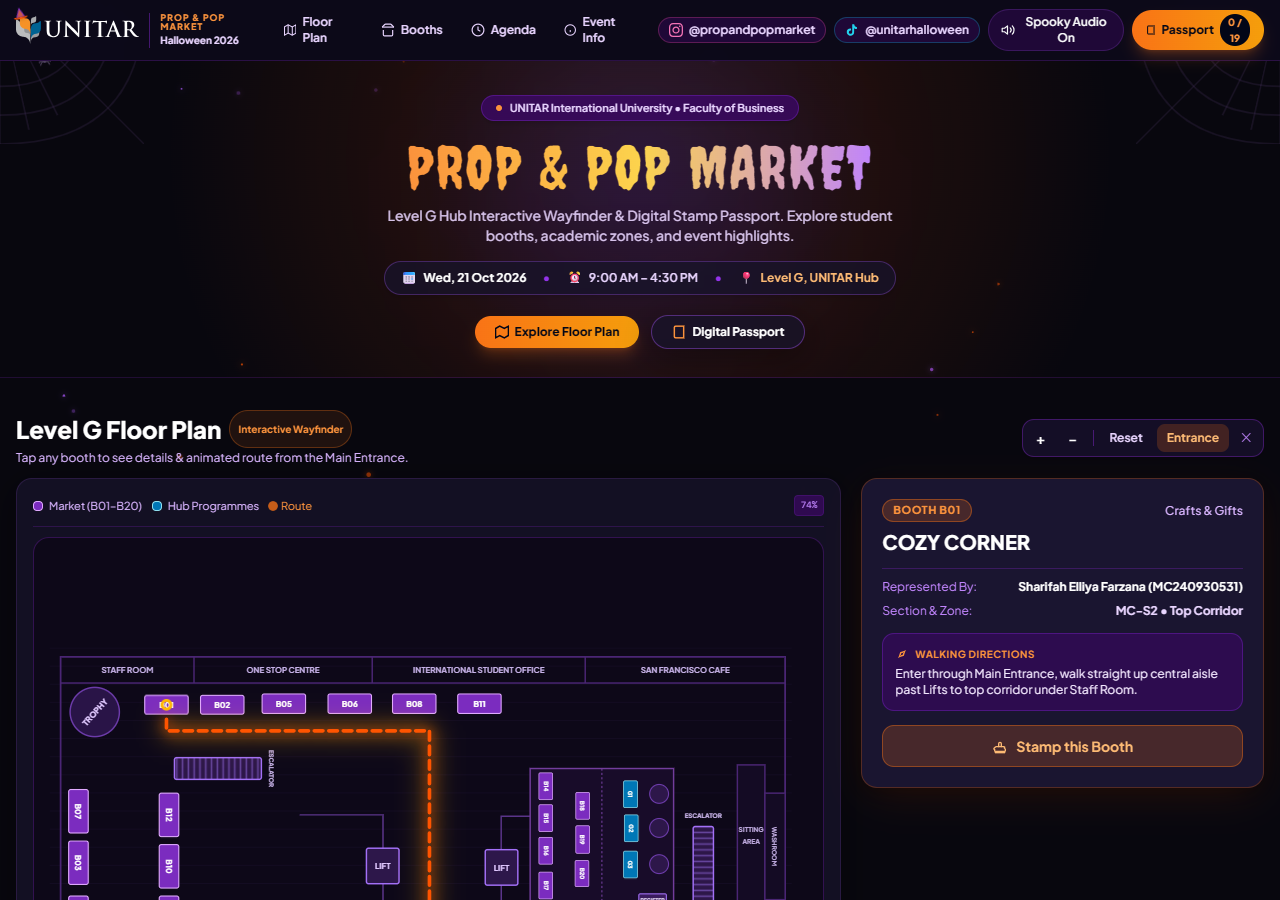
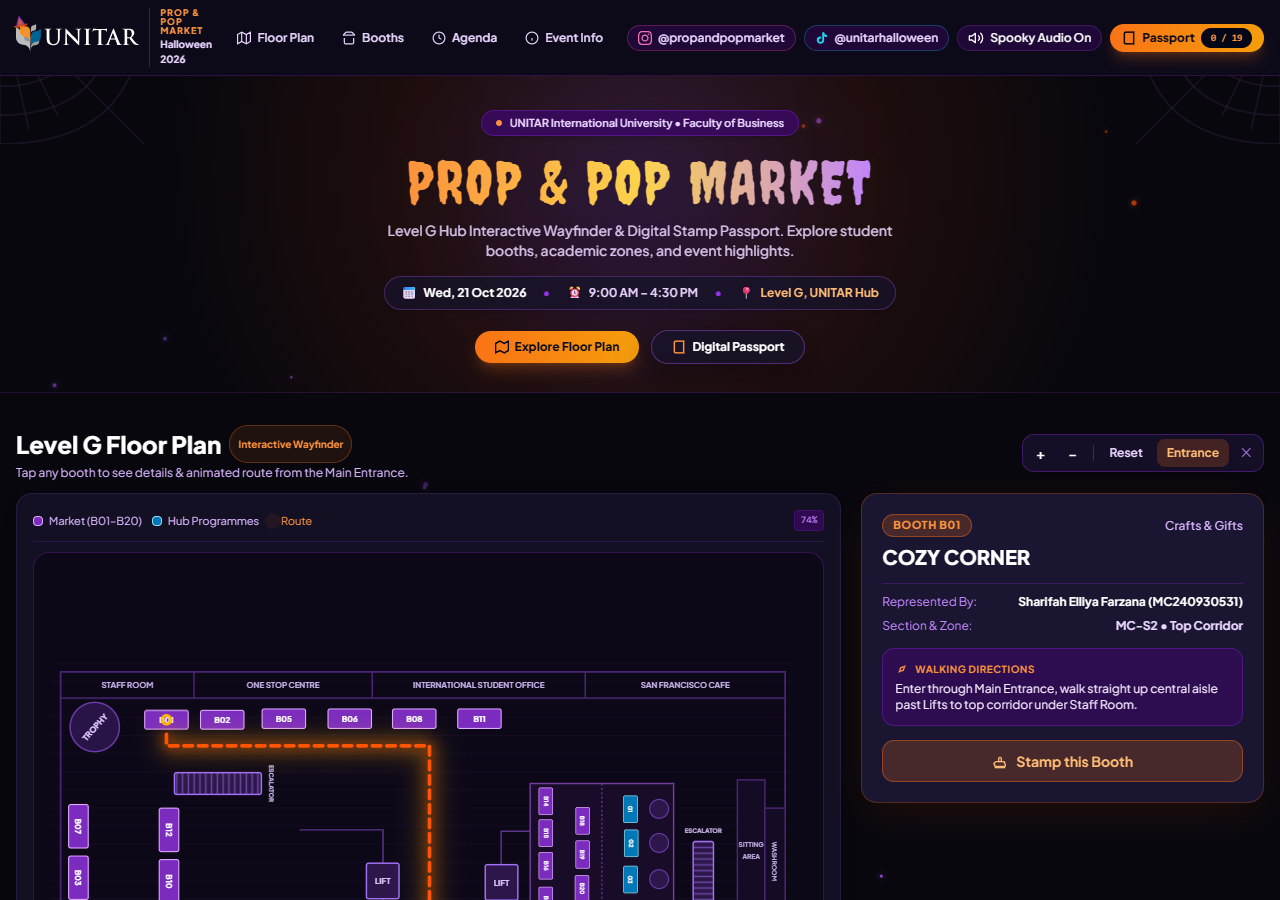
fix(ui): enforce single-line layout on nav & passport badge, and smooth scroll to map on mobile Show Route

diff --git a/index.html b/index.html
@@ -111,29 +111,29 @@
       </a>
 
       <!-- Desktop Smooth Navigation Links -->
-      <nav class="hidden md:flex items-center gap-1 text-xs font-semibold text-purple-200">
-        <a id="nav-map" href="#map-section" class="desktop-nav-link px-3 py-1.5 rounded-lg hover:bg-purple-900/40 hover:text-white transition flex items-center gap-1.5">
-          <svg class="w-3.5 h-3.5" viewBox="0 0 24 24" fill="none" stroke="currentColor" stroke-width="2"><polygon points="1 6 1 22 8 18 16 22 23 18 23 2 16 6 8 2 1 6"/><line x1="8" y1="2" x2="8" y2="18"/><line x1="16" y1="6" x2="16" y2="22"/></svg>
-          <span>Floor Plan</span>
+      <nav class="hidden md:flex items-center gap-1 text-xs font-semibold text-purple-200 shrink-0 whitespace-nowrap">
+        <a id="nav-map" href="#map-section" class="desktop-nav-link whitespace-nowrap px-2.5 lg:px-3 py-1.5 rounded-lg hover:bg-purple-900/40 hover:text-white transition flex items-center gap-1.5 text-xs shrink-0">
+          <svg class="w-3.5 h-3.5 shrink-0" viewBox="0 0 24 24" fill="none" stroke="currentColor" stroke-width="2"><polygon points="1 6 1 22 8 18 16 22 23 18 23 2 16 6 8 2 1 6"/><line x1="8" y1="2" x2="8" y2="18"/><line x1="16" y1="6" x2="16" y2="22"/></svg>
+          <span class="whitespace-nowrap">Floor Plan</span>
         </a>
-        <a id="nav-directory" href="#directory-section" class="desktop-nav-link px-3 py-1.5 rounded-lg hover:bg-purple-900/40 hover:text-white transition flex items-center gap-1.5">
-          <svg class="w-3.5 h-3.5" viewBox="0 0 24 24" fill="none" stroke="currentColor" stroke-width="2"><path d="m2 7 4.41-4.41A2 2 0 0 1 7.83 2h8.34a2 2 0 0 1 1.42.59L22 7"/><path d="M4 12v8a2 2 0 0 0 2 2h12a2 2 0 0 0 2-2v-8"/><path d="M2 7h20"/></svg>
-          <span>Booths</span>
+        <a id="nav-directory" href="#directory-section" class="desktop-nav-link whitespace-nowrap px-2.5 lg:px-3 py-1.5 rounded-lg hover:bg-purple-900/40 hover:text-white transition flex items-center gap-1.5 text-xs shrink-0">
+          <svg class="w-3.5 h-3.5 shrink-0" viewBox="0 0 24 24" fill="none" stroke="currentColor" stroke-width="2"><path d="m2 7 4.41-4.41A2 2 0 0 1 7.83 2h8.34a2 2 0 0 1 1.42.59L22 7"/><path d="M4 12v8a2 2 0 0 0 2 2h12a2 2 0 0 0 2-2v-8"/><path d="M2 7h20"/></svg>
+          <span class="whitespace-nowrap">Booths</span>
         </a>
-        <a id="nav-agenda" href="#agenda-section" class="desktop-nav-link px-3 py-1.5 rounded-lg hover:bg-purple-900/40 hover:text-white transition flex items-center gap-1.5">
-          <svg class="w-3.5 h-3.5" viewBox="0 0 24 24" fill="none" stroke="currentColor" stroke-width="2"><circle cx="12" cy="12" r="10"/><polyline points="12 6 12 12 16 14"/></svg>
-          <span>Agenda</span>
+        <a id="nav-agenda" href="#agenda-section" class="desktop-nav-link whitespace-nowrap px-2.5 lg:px-3 py-1.5 rounded-lg hover:bg-purple-900/40 hover:text-white transition flex items-center gap-1.5 text-xs shrink-0">
+          <svg class="w-3.5 h-3.5 shrink-0" viewBox="0 0 24 24" fill="none" stroke="currentColor" stroke-width="2"><circle cx="12" cy="12" r="10"/><polyline points="12 6 12 12 16 14"/></svg>
+          <span class="whitespace-nowrap">Agenda</span>
         </a>
-        <a id="nav-info" href="#info-section" class="desktop-nav-link px-3 py-1.5 rounded-lg hover:bg-purple-900/40 hover:text-white transition flex items-center gap-1.5">
-          <svg class="w-3.5 h-3.5" viewBox="0 0 24 24" fill="none" stroke="currentColor" stroke-width="2"><circle cx="12" cy="12" r="10"/><line x1="12" y1="16" x2="12" y2="12"/><line x1="12" y1="8" x2="12.01" y2="8"/></svg>
-          <span>Event Info</span>
+        <a id="nav-info" href="#info-section" class="desktop-nav-link whitespace-nowrap px-2.5 lg:px-3 py-1.5 rounded-lg hover:bg-purple-900/40 hover:text-white transition flex items-center gap-1.5 text-xs shrink-0">
+          <svg class="w-3.5 h-3.5 shrink-0" viewBox="0 0 24 24" fill="none" stroke="currentColor" stroke-width="2"><circle cx="12" cy="12" r="10"/><line x1="12" y1="16" x2="12" y2="12"/><line x1="12" y1="8" x2="12.01" y2="8"/></svg>
+          <span class="whitespace-nowrap">Event Info</span>
         </a>
       </nav>
 
       <!-- Action Utilities: Official Socials (IG & TikTok), Spooky Audio Toggle & Passport Modal Button -->
-      <div class="flex items-center gap-1.5 sm:gap-2">
+      <div class="flex items-center gap-1.5 sm:gap-2 shrink-0">
         <!-- Official Event Instagram Link -->
-        <a href="https://www.instagram.com/p/DeYsFLFR_hn/?mdxt=MWNqNms3eGRxYnMzZw==" target="_blank" rel="noopener noreferrer" class="py-1 px-2 sm:px-2.5 rounded-full border border-pink-500/30 bg-purple-950/40 hover:bg-pink-950/50 hover:border-pink-500/60 text-purple-200 hover:text-pink-300 transition flex items-center gap-1.5" title="Follow Prop and Pop Market on Instagram (@propandpopmarket)">
+        <a href="https://www.instagram.com/p/DeYsFLFR_hn/?mdxt=MWNqNms3eGRxYnMzZw==" target="_blank" rel="noopener noreferrer" class="py-1 px-2 sm:px-2.5 rounded-full border border-pink-500/30 bg-purple-950/40 hover:bg-pink-950/50 hover:border-pink-500/60 text-purple-200 hover:text-pink-300 transition flex items-center gap-1.5 shrink-0" title="Follow Prop and Pop Market on Instagram (@propandpopmarket)">
           <svg class="w-3.5 h-3.5 text-pink-400 shrink-0" viewBox="0 0 24 24" fill="currentColor">
             <path d="M12 2.163c3.204 0 3.584.012 4.85.07 3.252.148 4.771 1.691 4.919 4.919.058 1.265.069 1.645.069 4.849 0 3.205-.012 3.584-.069 4.849-.149 3.225-1.664 4.771-4.919 4.919-1.266.058-1.644.07-4.85.07-3.204 0-3.584-.012-4.849-.07-3.26-.149-4.771-1.699-4.919-4.92-.058-1.265-.07-1.644-.07-4.849 0-3.204.013-3.583.07-4.849.149-3.227 1.664-4.771 4.919-4.919 1.266-.057 1.645-.069 4.849-.069zm0-2.163c-3.259 0-3.667.014-4.947.072-4.358.2-6.78 2.618-6.98 6.98-.059 1.281-.073 1.689-.073 4.948 0 3.259.014 3.668.072 4.948.2 4.358 2.618 6.78 6.98 6.98 1.281.058 1.689.072 4.948.072 3.259 0 3.668-.014 4.948-.072 4.354-.2 6.782-2.618 6.979-6.98.059-1.28.073-1.689.073-4.948 0-3.259-.014-3.667-.072-4.947-.196-4.354-2.617-6.78-6.979-6.98-1.281-.059-1.69-.073-4.949-.073zm0 5.838c-3.403 0-6.162 2.759-6.162 6.162s2.759 6.163 6.162 6.163 6.162-2.759 6.162-6.163c0-3.403-2.759-6.162-6.162-6.162zm0 10.162c-2.209 0-4-1.79-4-4 0-2.209 1.791-4 4-4s4 1.791 4 4c0 2.21-1.791 4-4 4zm6.406-11.845c-.796 0-1.441.645-1.441 1.44s.645 1.44 1.441 1.44c.795 0 1.439-.645 1.439-1.44s-.644-1.44-1.439-1.44z"/>
           </svg>
@@ -141,22 +141,22 @@
         </a>
 
         <!-- Official Event TikTok Link -->
-        <a href="https://vt.tiktok.com/ZSbTnwRfd/" target="_blank" rel="noopener noreferrer" class="py-1 px-2 sm:px-2.5 rounded-full border border-cyan-500/30 bg-purple-950/40 hover:bg-cyan-950/50 hover:border-cyan-500/60 text-purple-200 hover:text-cyan-300 transition flex items-center gap-1.5" title="Follow Halloween Event on TikTok (@unitarhalloweenevent2026)">
+        <a href="https://vt.tiktok.com/ZSbTnwRfd/" target="_blank" rel="noopener noreferrer" class="py-1 px-2 sm:px-2.5 rounded-full border border-cyan-500/30 bg-purple-950/40 hover:bg-cyan-950/50 hover:border-cyan-500/60 text-purple-200 hover:text-cyan-300 transition flex items-center gap-1.5 shrink-0" title="Follow Halloween Event on TikTok (@unitarhalloweenevent2026)">
           <svg class="w-3.5 h-3.5 text-cyan-400 shrink-0" viewBox="0 0 24 24" fill="currentColor">
             <path d="M19.59 6.69a4.83 4.83 0 0 1-3.77-4.25V2h-3.45v13.67a2.89 2.89 0 0 1-5.2 1.74 2.89 2.89 0 0 1 2.31-4.64c.298-.002.595.042.88.13V9.4a6.33 6.33 0 0 0-1-.08A6.34 6.34 0 0 0 3 15.66a6.34 6.34 0 0 0 10.82 4.47 6.27 6.27 0 0 0 1.83-4.47V8.9a8.16 8.16 0 0 0 4.77 1.52v-3.4a4.85 4.85 0 0 1-.83-.33z"/>
           </svg>
           <span class="hidden lg:inline text-xs font-semibold">@unitarhalloween</span>
         </a>
 
-        <button id="audio-toggle-btn" class="py-1 px-2.5 sm:px-3 rounded-full border border-purple-500/20 bg-purple-950/40 hover:bg-purple-900/60 transition flex items-center gap-1.5" title="Toggle Spooky Audio Effects">
-          <svg class="w-3.5 h-3.5 text-orange-400" viewBox="0 0 24 24" fill="none" stroke="currentColor" stroke-width="2"><polygon points="11 5 6 9 2 9 2 15 6 15 11 19 11 5"/><path d="M15.54 8.46a5 5 0 0 1 0 7.07"/></svg>
+        <button id="audio-toggle-btn" class="py-1 px-2 sm:px-2.5 rounded-full border border-purple-500/20 bg-purple-950/40 hover:bg-purple-900/60 transition flex items-center gap-1.5 shrink-0" title="Toggle Spooky Audio Effects">
+          <svg class="w-3.5 h-3.5 text-orange-400 shrink-0" viewBox="0 0 24 24" fill="none" stroke="currentColor" stroke-width="2"><polygon points="11 5 6 9 2 9 2 15 6 15 11 19 11 5"/><path d="M15.54 8.46a5 5 0 0 1 0 7.07"/></svg>
           <span class="hidden sm:inline text-xs font-semibold text-purple-200">Spooky Sound</span>
         </button>
 
-        <button onclick="openPassportModal()" class="py-1 px-3 sm:px-3.5 rounded-full bg-gradient-to-r from-orange-500 to-amber-500 hover:from-orange-400 hover:to-amber-400 text-slate-950 text-xs font-black shadow-lg shadow-orange-500/25 transition flex items-center gap-1.5">
-          <svg class="w-3.5 h-3.5" viewBox="0 0 24 24" fill="none" stroke="currentColor" stroke-width="2.5"><path d="M4 19.5v-15A2.5 2.5 0 0 1 6.5 2H20v20H6.5a2.5 2.5 0 0 1-2.5-2.5Z"/></svg>
-          <span>Passport</span>
-          <span id="passport-badge-count" class="bg-slate-950 text-orange-400 px-1.5 py-0.2 rounded-full text-[10px]">0 / 19</span>
+        <button onclick="openPassportModal()" class="py-1 px-2.5 sm:px-3 rounded-full bg-gradient-to-r from-orange-500 to-amber-500 hover:from-orange-400 hover:to-amber-400 text-slate-950 text-xs font-black shadow-lg shadow-orange-500/25 transition flex items-center gap-1.5 shrink-0 whitespace-nowrap">
+          <svg class="w-3.5 h-3.5 shrink-0" viewBox="0 0 24 24" fill="none" stroke="currentColor" stroke-width="2.5"><path d="M4 19.5v-15A2.5 2.5 0 0 1 6.5 2H20v20H6.5a2.5 2.5 0 0 1-2.5-2.5Z"/></svg>
+          <span class="whitespace-nowrap">Passport</span>
+          <span id="passport-badge-count" class="bg-slate-950 text-orange-400 px-2 py-0.5 rounded-full text-[9.5px] sm:text-[10px] font-black font-mono whitespace-nowrap inline-flex items-center justify-center min-w-[3.2rem] tracking-tight">0 / 19</span>
         </button>
       </div>
     </div>
@@ -706,7 +706,7 @@
             Official opening speech by the Faculty of Business Acting Dean at the Main Stage (UNITAR Hub).
           </p>
         </div>
-        <button onclick="selectBooth('STAGE', true); document.getElementById('map-section').scrollIntoView({ behavior: 'smooth' });" class="self-start sm:self-center px-3 py-1.5 rounded-lg bg-purple-900/40 hover:bg-purple-800 text-purple-200 text-xs font-bold transition shrink-0">
+        <button onclick="selectBooth('STAGE', true); scrollToMap();" class="self-start sm:self-center px-3 py-1.5 rounded-lg bg-purple-900/40 hover:bg-purple-800 text-purple-200 text-xs font-bold transition shrink-0">
           Locate Stage →
         </button>
       </div>
@@ -744,7 +744,7 @@
             Wrap up the day with group photo sessions at the Halloween Photo Stand and final visits before market concludes!
           </p>
         </div>
-        <button onclick="selectBooth('PHOTO', true); document.getElementById('map-section').scrollIntoView({ behavior: 'smooth' });" class="self-start sm:self-center px-3 py-1.5 rounded-lg bg-purple-900/40 hover:bg-purple-800 text-purple-200 text-xs font-bold transition shrink-0">
+        <button onclick="selectBooth('PHOTO', true); scrollToMap();" class="self-start sm:self-center px-3 py-1.5 rounded-lg bg-purple-900/40 hover:bg-purple-800 text-purple-200 text-xs font-bold transition shrink-0">
           Photo Stand →
         </button>
       </div>

diff --git a/test_floorplan.js b/test_floorplan.js
@@ -79,33 +79,45 @@ const fs = require('fs');
     console.log('SUCCESS: Passport total is exactly 19 booths (B01-B20)!');
   }
 
-  const badgeText = await page.innerText('#passport-badge-count');
-  console.log(`Header badge counter text: "${badgeText}"`);
-  if (!badgeText.includes('/ 19')) {
-    console.error(`FAIL: Header badge counter does not show / 19: "${badgeText}"`);
-    process.exitCode = 1;
-  } else {
-    console.log('SUCCESS: Header badge counter displays "0 / 19"!');
-  }
-
-  // 5. Open Passport Modal & Verify 19 Stamp Slots
-  console.log('Opening passport modal...');
-  await page.evaluate(() => openPassportModal());
-  await page.waitForTimeout(300);
-
-  const slotCount = await page.$$eval('#passport-slots-grid > div', els => els.length);
-  console.log(`Passport modal slot count: ${slotCount}`);
-  if (slotCount !== 19) {
-    console.error(`FAIL: Expected 19 passport slots, found ${slotCount}`);
-    process.exitCode = 1;
-  } else {
-    console.log('SUCCESS: Exactly 19 stamp slots rendered in passport modal!');
-  }
-
-  await page.screenshot({ path: path.join(screenshotDir, 'passport_modal_19slots.png') });
-  console.log('Saved: passport_modal_19slots.png');
-  await page.evaluate(() => closePassportModal());
+  // 5. Verify Single-Line Navbar and Elongated Badge on 950px viewport (medium screen)
+  console.log('Testing Single-Line Nav Links & Elongated Passport Badge (950px viewport)...');
+  await page.setViewportSize({ width: 950, height: 800 });
   await page.waitForTimeout(200);
+
+  // Check Floor Plan & Event Info nav height (should be single line ~16-20px, not stacked > 30px)
+  const floorPlanHeight = await page.$eval('#nav-map span', el => el.getBoundingClientRect().height);
+  const eventInfoHeight = await page.$eval('#nav-info span', el => el.getBoundingClientRect().height);
+  console.log(`Nav "Floor Plan" height: ${floorPlanHeight}px, "Event Info" height: ${eventInfoHeight}px`);
+  if (floorPlanHeight > 24 || eventInfoHeight > 24) {
+    console.error('FAIL: Nav links wrapped onto multiple lines!');
+    process.exitCode = 1;
+  } else {
+    console.log('SUCCESS: Nav links strictly stay on one single line!');
+  }
+
+  // Set 18 stamps to test "18 / 19" badge
+  await page.evaluate(() => {
+    const booths = BOOTHS_DATA.filter(b => passport.isStampable(b.id)).slice(0, 18);
+    booths.forEach(b => passport.stamps.add(b.id));
+    passport.save();
+    passport.updateUI();
+  });
+
+  const badgeText18 = await page.innerText('#passport-badge-count');
+  const badgeHeight18 = await page.$eval('#passport-badge-count', el => el.getBoundingClientRect().height);
+  console.log(`Passport badge text: "${badgeText18}", height: ${badgeHeight18}px`);
+  if (badgeHeight18 > 24 || !badgeText18.includes('18 / 19')) {
+    console.error(`FAIL: Badge wrapped onto multiple lines or text incorrect! Height: ${badgeHeight18}`);
+    process.exitCode = 1;
+  } else {
+    console.log('SUCCESS: Passport badge "18 / 19" displays cleanly on ONE single line without stacking!');
+  }
+
+  await page.screenshot({ path: path.join(screenshotDir, 'desktop_nav_single_line.png') });
+  console.log('Saved: desktop_nav_single_line.png');
+
+  // Reset back to 1280px viewport
+  await page.setViewportSize({ width: 1280, height: 900 });
 
   // 6. Test Drawer Stamp Button behavior for Vendor Booth vs Non-Booth
   console.log('Testing Drawer Stamp Button for B01 (Vendor Booth)...');
@@ -141,23 +153,7 @@ const fs = require('fs');
     console.log('SUCCESS: #panel-stamp-btn is hidden for BFINTECH!');
   }
 
-  // 7. Test Stamping B01 and milestone progress
-  console.log('Testing Stamping B01...');
-  await page.evaluate(() => passport.toggleStamp('B01'));
-  const stampedCount = await page.evaluate(() => passport.getCount());
-  console.log(`Stamped count after B01: ${stampedCount}`);
-  if (stampedCount !== 1) {
-    console.error(`FAIL: Expected count 1, got ${stampedCount}`);
-    process.exitCode = 1;
-  }
-  const badgeAfterStamp = await page.innerText('#passport-badge-count');
-  console.log(`Badge after stamp: "${badgeAfterStamp}"`);
-  if (badgeAfterStamp !== '1 / 19') {
-    console.error(`FAIL: Expected '1 / 19', got "${badgeAfterStamp}"`);
-    process.exitCode = 1;
-  }
-
-  // 8. Test 100% Completion & Rickroll Modal (Voucher Code Section DELETED)
+  // 7. Test 100% Completion & Rickroll Modal (Voucher Code Section DELETED)
   console.log('Testing 100% completion (collecting all 19 booth stamps)...');
   await page.evaluate(() => {
     const stampable = BOOTHS_DATA.filter(b => passport.isStampable(b.id));
@@ -212,7 +208,7 @@ const fs = require('fs');
     passport.updateUI();
   });
 
-  // 9. Verify QR Standee is HIDDEN by default and ACCESSIBLE in realtime via URL altering
+  // 8. Verify QR Standee is HIDDEN by default and ACCESSIBLE in realtime via URL altering
   console.log('Testing QR Standee hidden by default...');
   const isQrLinkHiddenDefault = await page.$eval('#qr-standee-link', el => el.classList.contains('hidden'));
   const isQrPillHiddenDefault = await page.$eval('#qr-organizer-pill', el => el.classList.contains('hidden'));
@@ -242,9 +238,6 @@ const fs = require('fs');
     console.log('SUCCESS: QR Standee became visible in realtime after altering URL hash to #qr!');
   }
 
-  await page.screenshot({ path: path.join(screenshotDir, 'qr_revealed_realtime.png') });
-  console.log('Saved: qr_revealed_realtime.png');
-
   // Remove hash (#) in realtime
   console.log('Removing hash to test hiding again in realtime...');
   await page.evaluate(() => {
@@ -263,14 +256,7 @@ const fs = require('fs');
     console.log('SUCCESS: QR Standee hides again in realtime when URL hash is cleared!');
   }
 
-  // 10. Reset map view to full overview
-  console.log('Resetting map view...');
-  await page.click('#btn-reset-zoom');
-  await page.waitForTimeout(400);
-  await mapElement.screenshot({ path: path.join(screenshotDir, 'desktop_floorplan_overview.png') });
-  console.log('Saved: desktop_floorplan_overview.png');
-
-  // 11. Verify Zero Phone Numbers in DOM
+  // 9. Verify Zero Phone Numbers in DOM
   const bodyText = await page.innerText('body');
   const phoneRegex = /\b01[0-9]-?[0-9]{7,8}\b/g;
   const foundPhones = bodyText.match(phoneRegex);
@@ -281,20 +267,48 @@ const fs = require('fs');
     console.log('SUCCESS: Zero phone/contact numbers detected in DOM! (Verified constraint)');
   }
 
-  // 12. Test Mobile Viewport (390x844 iPhone 12/13/14)
-  console.log('Testing Mobile Viewport (390x844)...');
+  // 10. Test Mobile Viewport (390x844 iPhone 12/13/14) & "Show Route" Scroll to Map
+  console.log('Testing Mobile Viewport (390x844) & "Show Route" scroll to map...');
   await page.setViewportSize({ width: 390, height: 844 });
-  await page.waitForTimeout(400);
-  await page.click('#btn-reset-zoom');
   await page.waitForTimeout(300);
-  await page.screenshot({ path: path.join(screenshotDir, 'mobile_full_view.png') });
-  console.log('Saved: mobile_full_view.png');
 
-  const mobileMap = await page.$('#map-viewport');
-  if (mobileMap) {
-    await mobileMap.screenshot({ path: path.join(screenshotDir, 'mobile_map_viewport.png') });
-    console.log('Saved: mobile_map_viewport.png');
+  // Scroll down to directory section
+  await page.evaluate(() => {
+    document.getElementById('directory-section').scrollIntoView();
+  });
+  await page.waitForTimeout(300);
+  const scrollBeforeClick = await page.evaluate(() => window.scrollY);
+  console.log(`Scroll position before clicking "Show Route": ${scrollBeforeClick}px`);
+
+  // Click "Show Route" on B01 in directory
+  console.log('Clicking "Show Route" button on B01 card...');
+  const showRouteBtn = await page.$('#booth-grid button:has-text("Show Route")');
+  if (showRouteBtn) {
+    await showRouteBtn.click();
+    await page.waitForTimeout(600); // Allow smooth scroll to settle
+  } else {
+    console.error('FAIL: Could not find Show Route button!');
+    process.exitCode = 1;
   }
+
+  const scrollAfterClick = await page.evaluate(() => window.scrollY);
+  const mapSectionOffsetTop = await page.evaluate(() => {
+    const el = document.getElementById('map-section');
+    return el ? el.offsetTop : 0;
+  });
+  console.log(`Scroll position after clicking "Show Route": ${scrollAfterClick}px (map section top: ${mapSectionOffsetTop}px)`);
+
+  // Verify that the viewport scrolled up towards map-section (should be around mapSectionOffsetTop - 64)
+  const isScrolledToMap = Math.abs(scrollAfterClick - (mapSectionOffsetTop - 64)) < 120 || scrollAfterClick < mapSectionOffsetTop + 100;
+  if (!isScrolledToMap) {
+    console.error(`FAIL: Viewport did not scroll to map section! Expected near ${mapSectionOffsetTop - 64}, got ${scrollAfterClick}`);
+    process.exitCode = 1;
+  } else {
+    console.log('SUCCESS: On mobile, clicking "Show Route" smoothly scrolled directly to the map!');
+  }
+
+  await page.screenshot({ path: path.join(screenshotDir, 'mobile_show_route_scrolled_to_map.png') });
+  console.log('Saved: mobile_show_route_scrolled_to_map.png');
 
   await browser.close();
   console.log('--- PLAYWRIGHT VERIFICATION COMPLETE ---');

diff --git a/app.js b/app.js
@@ -1312,18 +1312,21 @@ function selectBooth(id, triggerFly = true) {
   // 4. Update Details Drawer & Drawer UI
   updateBoothInfoPanel(booth);
 
-  // If on mobile (screen < 1024px) and triggered directly by user, gently scroll to panel
-  if (triggerFly && window.innerWidth < 1024) {
-    const detailsPanel = document.getElementById('booth-details-card');
-    if (detailsPanel) {
-      setTimeout(() => {
-        detailsPanel.scrollIntoView({ behavior: 'smooth', block: 'nearest' });
-      }, 250);
-    }
-  }
-
   // 5. Update cards glowing active state
   renderBoothCards();
+}
+
+// Smoothly scroll the viewport to the interactive map with sticky header offset
+function scrollToMap() {
+  const mapSection = document.getElementById('map-section');
+  if (mapSection) {
+    const headerOffset = 64;
+    const targetPos = mapSection.getBoundingClientRect().top + window.pageYOffset - headerOffset;
+    window.scrollTo({
+      top: Math.max(0, targetPos),
+      behavior: 'smooth'
+    });
+  }
 }
 
 // Clear currently selected path
@@ -1536,7 +1539,7 @@ function renderBoothCards() {
         <!-- Action Button -->
         <div class="mt-3 pt-2.5 border-t border-purple-800/30">
           <button
-            onclick="selectBooth('${booth.id}', true); document.getElementById('map-section').scrollIntoView({ behavior: 'smooth' });"
+            onclick="selectBooth('${booth.id}', true); scrollToMap();"
             class="w-full py-1.5 px-3 rounded-lg bg-orange-500/20 hover:bg-orange-500 text-orange-300 hover:text-slate-950 border border-orange-500/40 text-xs font-bold transition flex items-center justify-center gap-1.5">
             ${SVG_ICONS.compass}
             <span>Show Route</span>
